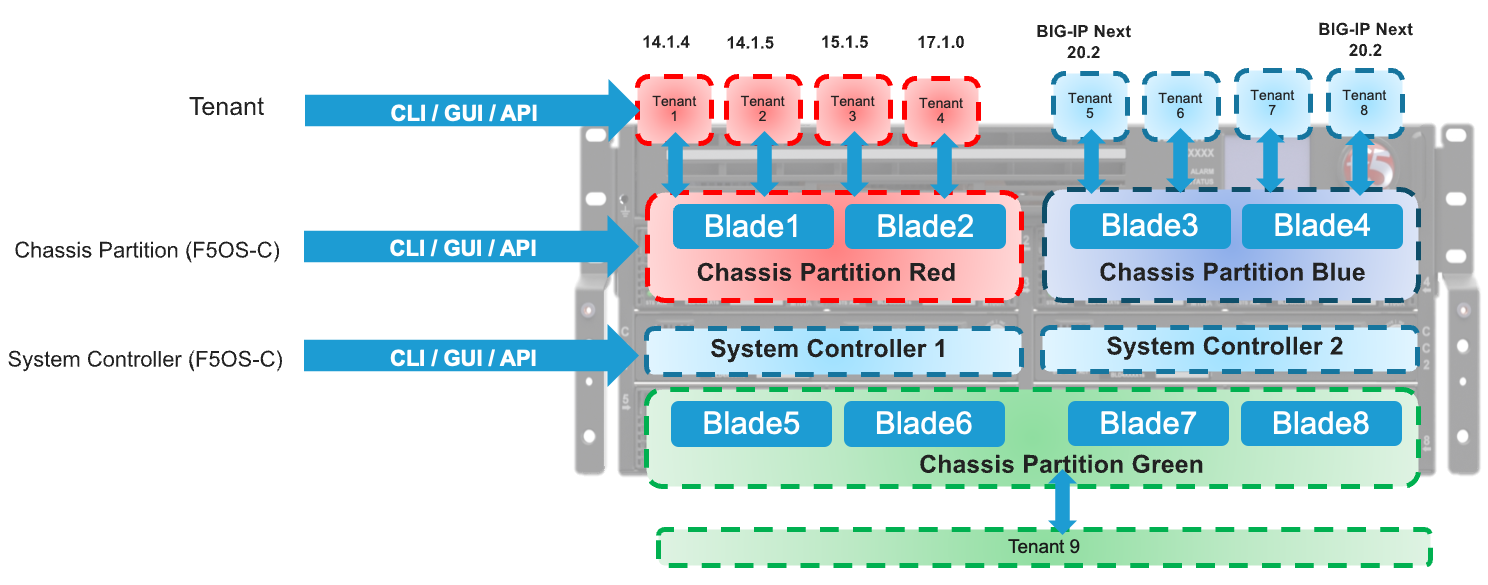
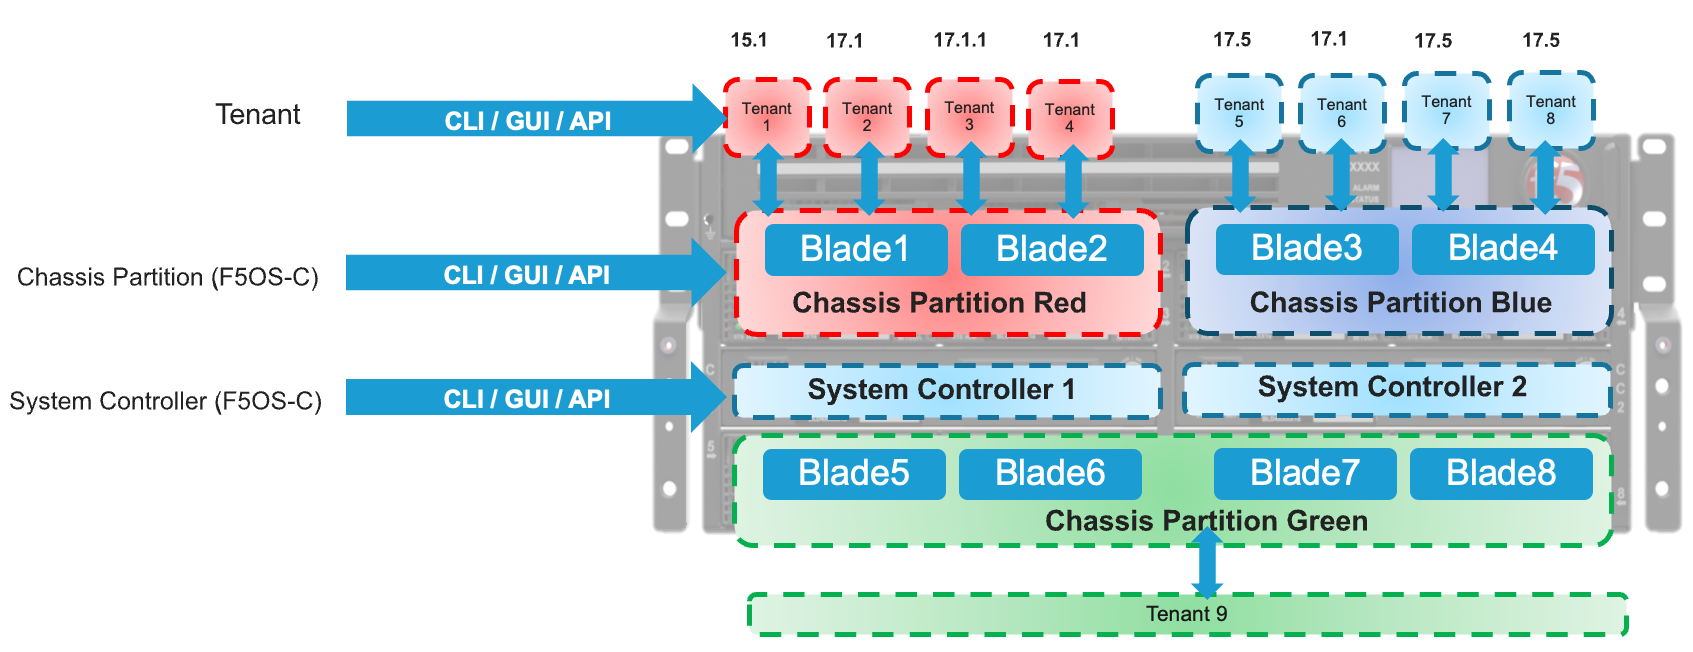
points of mgmt

diff --git a/docs/velos_points_of_management.rst b/docs/velos_points_of_management.rst
@@ -9,17 +9,14 @@ There are three main points of management within the VELOS chassis: the **system
   :scale: 90%
 
 
-Additionally, they each run their own version of software; tenants are able to run specific versions of TMOS which have been approved to run on the VELOS platform, and system controllers and chassis partitions each have their own version of F5OS-C software. BIG-IP Next tenants can also run on the VELOS chassis, and support for different sized tenants, mixed configurations, and cross blade support is being phased in over multiple releases. It is suggested to check both the F5OS and BIG-IP Next release notes for the latest supported configurations for BIG-IP Next on VELOS. The supported BIG-IP/TMOS and BIG-IP Next versions along with their supported F5OS versions for the various VELOS platforms can be found here:
+Additionally, they each run their own version of software; tenants are able to run specific versions of TMOS which have been approved to run on the VELOS platform, and system controllers and chassis partitions each have their own version of F5OS software. Different versions of BIG-IP tenants can run side-by-side within the VELOS chassis, and support for different sized tenants, mixed configurations, and cross blade support is fully supported and works similar to how vCMP worked in VIPRION. The supported BIG-IP/TMOS versions along with their supported F5OS versions for the various VELOS platforms can be found here:
 
 `K86001294: F5OS hardware/software support matrix <https://my.f5.com/manage/s/article/K86001294>`_
 
-Details on the latest BIG-IP Next tenant support for VELOS can be found in the latest BIG-IP Next System Requirements and Compatibility documentation:
 
-`BIG-IP Next System Requirements and Compatibility <https://clouddocs.f5.com/bigip-next/latest/release_notes/big-ip-next-rn-new-features.html#system-requirements-and-compatibility>`_
+In general, for BIG-IP tenants TMOS versions 14.1.4 and later, 15.1.4 and later, and 17.1.x, 17.5 and later are supported on the BX110 blades in the CX410 chassis. Although some of the older 14.x/15.x TMOS releases have now reached End of Technical Support. Versions 16.0.x, 16.1.x, or 17.0.x were never supported on VELOS. For the BX520 blade, the minimum supported TMOS version is 17.1.2 and later.
 
-In general, for BIG-IP tenants TMOS versions 14.1.4 and later, 15.1.4 and later, and 17.1.x, 17.5 and later are supported on the BX110 blades in the CX410 chassis. There are no plans to support versions 16.0.x, 16.1.x, or 17.0.x, and there are no plans to support TMOS versions prior to 14.1.4. For the BX520 blade, the minimum supported TMOS version is 17.1.2 and later.
-
-The F5OS-C platform layer in VELOS runs its own version of F5OS, which is unique to the VELOS chassis. On downloads.f5.com, the VELOS versions of F5OS are referred to as F5OS-C, where the C stands for chassis. The rSeries appliances also run F5OS, but that version is designated as F5OS-A, where A stands for appliance. Most of the code and configuration interfaces of F5OS are common between VELOS and rSeries, but VELOS has unique F5OS features that are chassis specific. VELOS has two layers of F5OS (system controller and chassis partition), and each of these have their own software images, in addition to the tenants that run TMOS.
+The F5OS platform layer in VELOS runs its own version of F5OS, which is unique to the VELOS chassis. On downloads.f5.com, the VELOS versions of F5OS are referred to as F5OS-C, where the C stands for chassis. The rSeries appliances also run F5OS, but that version is designated as F5OS-A, where A stands for appliance. Most of the code and configuration interfaces of F5OS are common between VELOS and rSeries, but VELOS has unique F5OS features that are chassis specific. VELOS has two layers of F5OS (system controller and chassis partition), and each of these have their own software images, in addition to the tenants that run TMOS.
 
 
 .. image:: images/velos_points_of_management/image2.png

diff --git a/docs/introduction_new.rst b/docs/introduction_new.rst
@@ -139,7 +139,7 @@ Tenants
 
 Tenancy is required to deploy any BIG-IP resources. VELOS is a multitenant chassis by default, there is no bare-metal mode, although it can be configured to emulate this mode with a single large tenant. You can configure one big chassis partition and assign all blades in the system to this resource. In fact, there is a “Default” partition that all blades are part of when inserted. You may change the slots assigned to the chassis partition by removing it from default and assigning to a new or existing chassis partition. A tenant could then be assigned to utilize all CPU and memory across that chassis partition. This would emulate a VIPRION system running “bare metal” where vCMP is not provisioned. 
 
-When configuring HA between two VELOS chassis, there is no HA relationship across chassis at the F5OS-C layer, where the system controllers or chassis partitions are configured. All HA is configured at the tenant level using Device Service Clustering, similar to how HA is configured between vCMP guests in separate VIPRION chassis. 
+When configuring HA between two VELOS chassis, there is no HA relationship across chassis at the F5OS layer, where the system controllers or chassis partitions are configured. All HA is configured at the tenant level using Device Service Clustering, similar to how HA is configured between vCMP guests in separate VIPRION chassis. 
 
 .. image:: images/velos_introduction/image9.png
   :align: center
